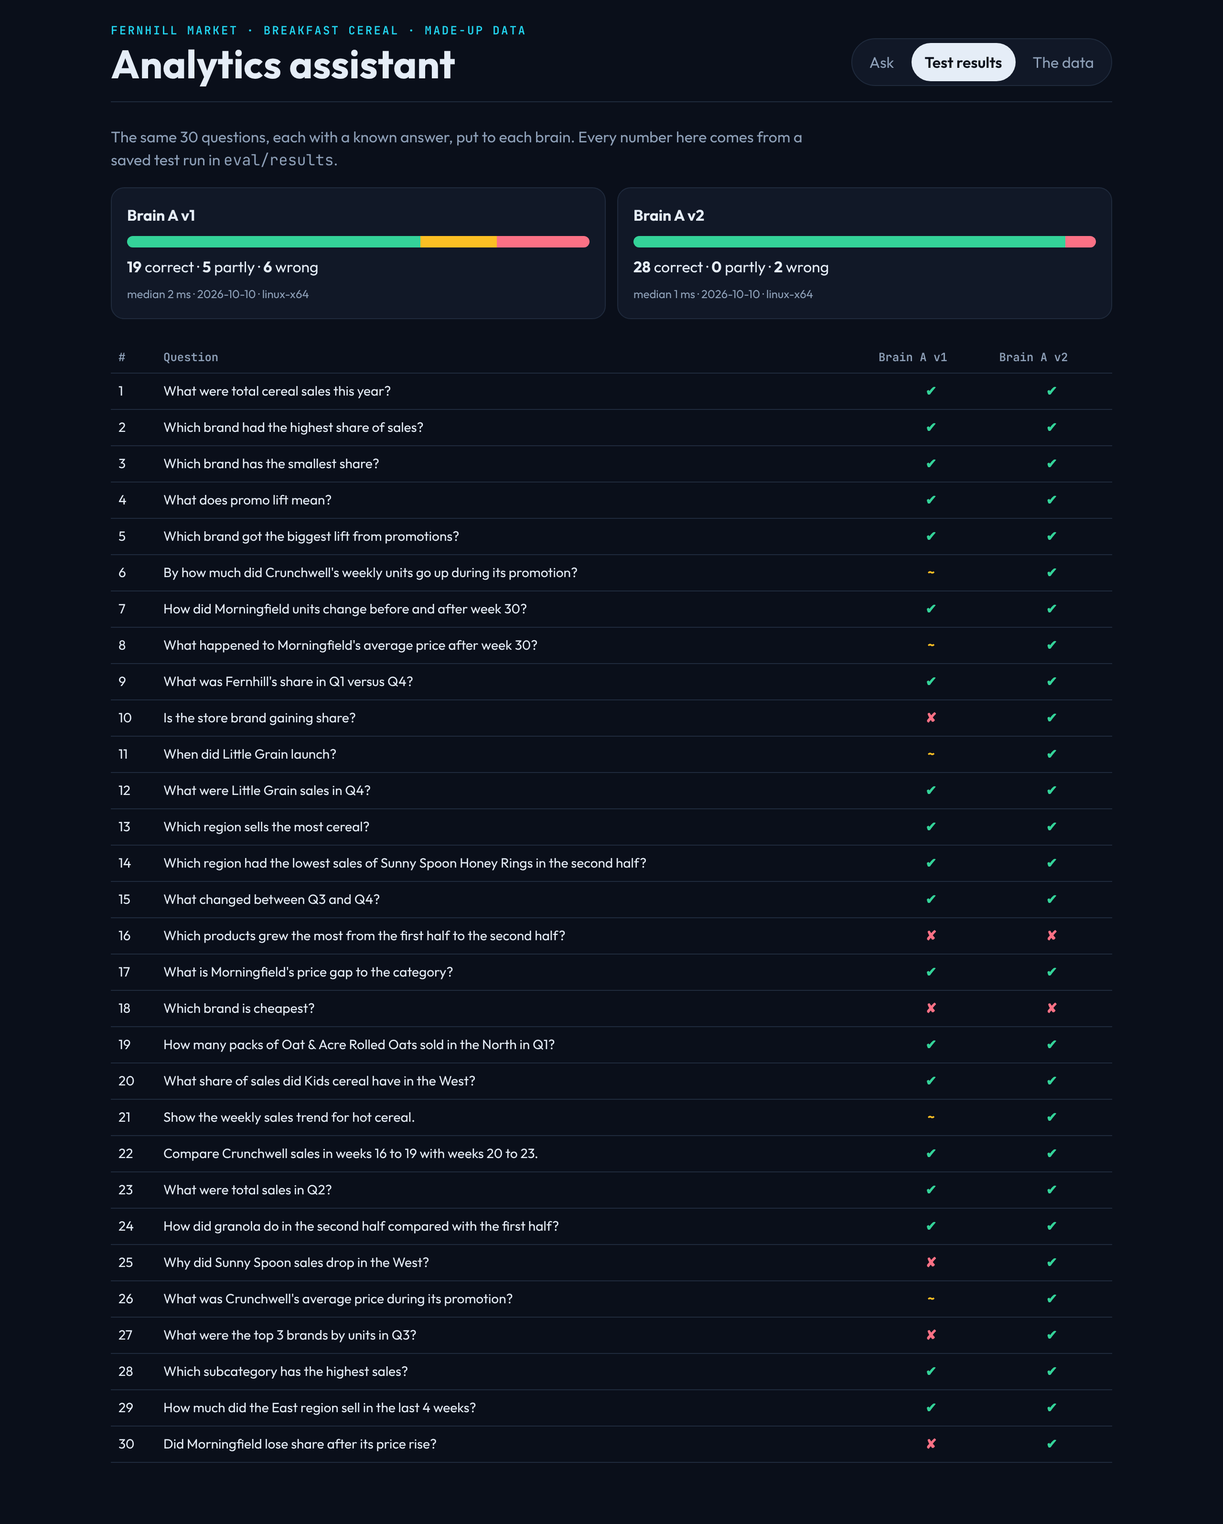
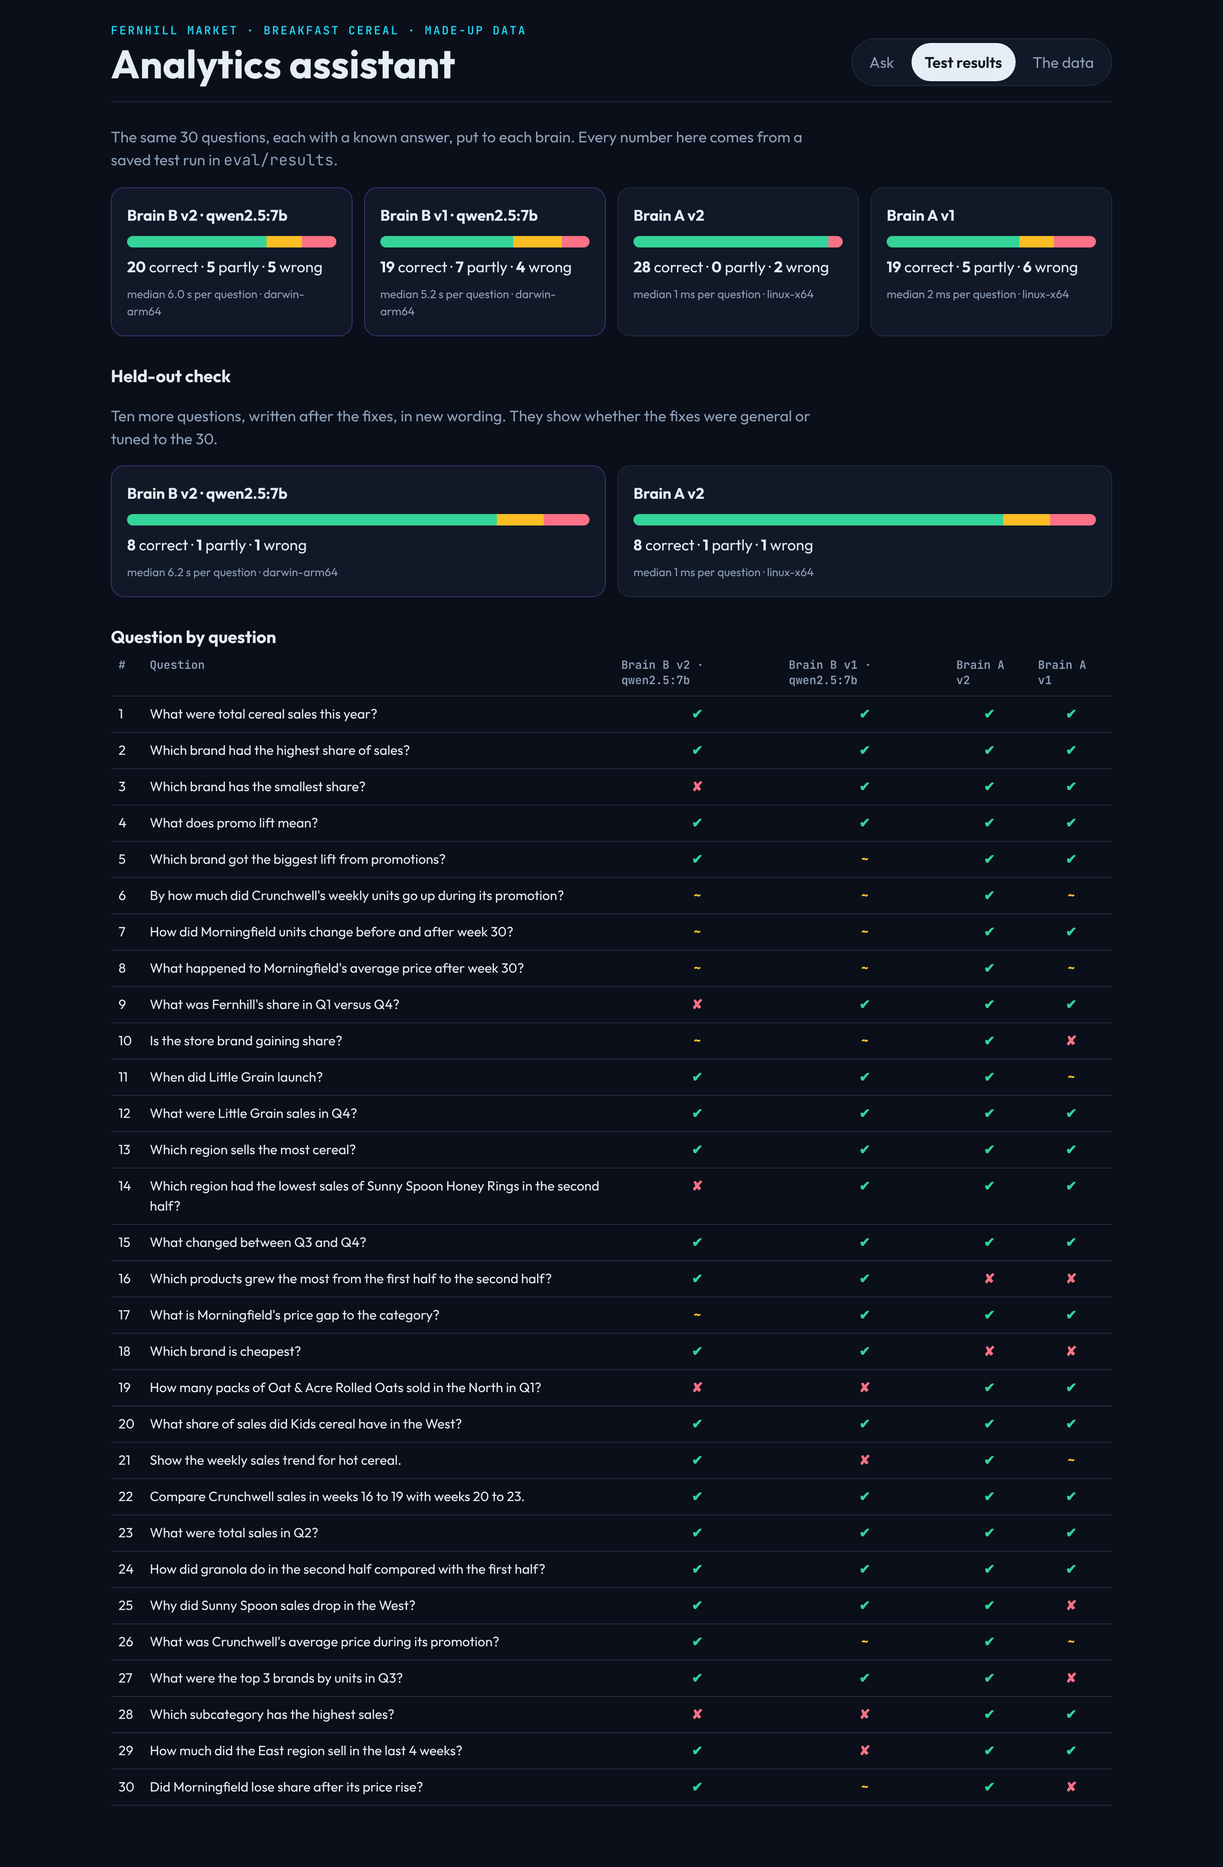
Analytics assistant: brain B results, scorer fix, case study, portfolio page
Brain B (qwen2.5:7b, real runs on the owner's Mac): 19/7/4 in v1 and
20/5/5 in v2, 8/1/1 on the held-out set, same as brain A v2. Found and
fixed a scorer bug ("West" matched inside "lowest"); every saved
answer was re-scored from its stored text and one verdict changed.
Test results tab now shows the held-out runs. Two-chapter case study
with a claims ledger, and a portfolio page linked from the copilot and
MCP pages.

Claude-Session: https://claude.ai/code/session_01GFJizb53m6GhKEsJMYueyU

diff --git a/web/src/App.tsx b/web/src/App.tsx
@@ -183,29 +183,37 @@ function ToolLog({ calls }: { calls: Call[] }) {
 
 function Results() {
   const [runs, setRuns] = useState<Run[]>([]);
+  const [holdout, setHoldout] = useState<Run[]>([]);
   useEffect(() => {
-    fetch("/api/results").then((r) => r.json()).then((d) => setRuns(d.runs)).catch(() => {});
+    fetch("/api/results").then((r) => r.json()).then((d) => (setRuns(d.runs), setHoldout(d.holdout ?? []))).catch(() => {});
   }, []);
   if (!runs.length) return <main className="results"><p>No test runs yet. Run <code>npm run eval -- rules</code>.</p></main>;
   const qs = runs[0].results;
-  const name = (r: Run) => `${r.summary.brain === "rules" ? "Brain A" : "Brain B"} ${r.summary.label}${r.summary.model ? ` (${r.summary.model})` : ""}`;
+  const name = (r: Run) => `${r.summary.brain === "rules" ? "Brain A" : "Brain B"} ${r.summary.label.replace(/^qwen2\.5-7b-?/, "") || "v1"}${r.summary.model ? ` · ${r.summary.model}` : ""}`;
+  const card = (r: Run) => (
+    <div className={`score ${r.summary.brain}`} key={name(r)}>
+      <h3>{name(r)}</h3>
+      <div className="stack" aria-label={`${r.summary.correct} correct, ${r.summary.partial} partly, ${r.summary.wrong} wrong`}>
+        <span className="c" style={{ flex: r.summary.correct }} />
+        <span className="p" style={{ flex: r.summary.partial }} />
+        <span className="w" style={{ flex: r.summary.wrong }} />
+      </div>
+      <p><b>{r.summary.correct}</b> correct · <b>{r.summary.partial}</b> partly · <b>{r.summary.wrong}</b> wrong</p>
+      <p className="small">median {r.summary.median_ms < 1000 ? `${r.summary.median_ms} ms` : `${(r.summary.median_ms / 1000).toFixed(1)} s`} per question · {r.summary.platform}</p>
+    </div>
+  );
   return (
     <main className="results">
       <p className="lead">The same 30 questions, each with a known answer, put to each brain. Every number here comes from a saved test run in <code>eval/results</code>.</p>
-      <div className="scores">
-        {runs.map((r) => (
-          <div className="score" key={name(r)}>
-            <h3>{name(r)}</h3>
-            <div className="stack" aria-label={`${r.summary.correct} correct, ${r.summary.partial} partly, ${r.summary.wrong} wrong`}>
-              <span className="c" style={{ flex: r.summary.correct }} />
-              <span className="p" style={{ flex: r.summary.partial }} />
-              <span className="w" style={{ flex: r.summary.wrong }} />
-            </div>
-            <p><b>{r.summary.correct}</b> correct · <b>{r.summary.partial}</b> partly · <b>{r.summary.wrong}</b> wrong</p>
-            <p className="small">median {r.summary.median_ms.toLocaleString()} ms · {r.summary.ran_at.slice(0, 10)} · {r.summary.platform}</p>
-          </div>
-        ))}
-      </div>
+      <div className="scores">{runs.map(card)}</div>
+      {holdout.length > 0 && (
+        <>
+          <h2>Held-out check</h2>
+          <p className="lead">Ten more questions, written after the fixes, in new wording. They show whether the fixes were general or tuned to the 30.</p>
+          <div className="scores">{holdout.map(card)}</div>
+        </>
+      )}
+      <h2>Question by question</h2>
       <div className="grid-wrap">
         <table className="grid">
           <thead>

diff --git a/eval/rescore.ts b/eval/rescore.ts
@@ -1,0 +1,23 @@
+// Re-scores every saved result with the current scorer, without re-running
+// any brain: the saved files keep each answer's full text. Used once, when a
+// scorer bug was found ("West" matched inside "lowest").
+import { readdirSync, readFileSync, writeFileSync } from "node:fs";
+import { buildDatabase } from "../src/data/seed.ts";
+import { buildQuestions } from "./questions.ts";
+import { buildHoldout } from "./holdout.ts";
+import { score } from "./score.ts";
+
+const db = buildDatabase();
+const keys = new Map([...buildQuestions(db), ...buildHoldout(db)].map((q) => [q.id, q.expect]));
+for (const file of [...readdirSync("eval/results").map((f) => `eval/results/${f}`), ...readdirSync("eval/results/holdout").map((f) => `eval/results/holdout/${f}`)].filter((f) => f.endsWith(".json"))) {
+  const run = JSON.parse(readFileSync(file, "utf8"));
+  const before = `${run.summary.correct}/${run.summary.partial}/${run.summary.wrong}`;
+  const counts = { correct: 0, partial: 0, wrong: 0 };
+  for (const r of run.results) {
+    if (!r.error) { const s = score(r.answer, keys.get(r.id)!); if (s.verdict !== r.verdict) console.log(`  ${file} #${r.id}: ${r.verdict} -> ${s.verdict}`); r.verdict = s.verdict; r.missing = s.missing; }
+    counts[r.verdict as keyof typeof counts]++;
+  }
+  Object.assign(run.summary, counts, { rescored_at: new Date().toISOString() });
+  writeFileSync(file, JSON.stringify(run, null, 2));
+  console.log(`${file}: ${before} -> ${counts.correct}/${counts.partial}/${counts.wrong}`);
+}

diff --git a/src/server/app.ts b/src/server/app.ts
@@ -27,9 +27,10 @@ export function buildApp(db: DatabaseSync, opts: { webDir?: string; resultsDir?:
   // The test results, for the Results tab. Only files the eval wrote.
   app.get("/api/results", async () => {
     const dir = opts.resultsDir ?? "eval/results";
-    if (!existsSync(dir)) return { runs: [] };
-    const runs = readdirSync(dir).filter((f) => f.endsWith(".json")).sort().map((f) => JSON.parse(readFileSync(join(dir, f), "utf8")));
-    return { runs };
+    const read = (d: string) => (existsSync(d) ? readdirSync(d).filter((f) => f.endsWith(".json")).sort().reverse().map((f) => JSON.parse(readFileSync(join(d, f), "utf8"))) : []);
+    // Brain B first, then A; newest version first within each.
+    const order = (runs: any[]) => runs.sort((a, b) => a.summary.brain.localeCompare(b.summary.brain) || b.summary.label.localeCompare(a.summary.label));
+    return { runs: order(read(dir)), holdout: order(read(join(dir, "holdout"))) };
   });
 
   app.get("/api/about", async () => ({ planted: Object.values(PLANTED).map((p) => p.text) }));

diff --git a/eval/score.ts b/eval/score.ts
@@ -25,7 +25,9 @@ export function score(text: string, e: Expected): { verdict: Verdict; passed: nu
   const nums = numbersIn(text);
   const missing: string[] = [];
   let passed = 0, total = 0;
-  for (const n of e.names ?? []) (total++, t.includes(n.toLowerCase()) ? passed++ : missing.push(n));
+  // Whole words only: "West" must not match inside "lowest" (a v1 scorer bug).
+  const has = (n: string) => new RegExp(`(^|[^a-z0-9])${n.toLowerCase().replace(/[.*+?^${}()|[\]\\&]/g, "\\$&")}($|[^a-z0-9])`).test(t);
+  for (const n of e.names ?? []) (total++, has(n) ? passed++ : missing.push(n));
   for (const v of e.numbers ?? []) (total++, nums.some((x) => close(x, v)) ? passed++ : missing.push(String(v)));
   if (e.anyWords) (total++, e.anyWords.some((w) => new RegExp(`\\b${w}\\b`).test(t)) ? passed++ : missing.push(e.anyWords.join("/")));
   const verdict: Verdict = total === 0 || passed === total ? "correct" : passed / total >= 0.5 ? "partial" : "wrong";

diff --git a/web/src/styles.css b/web/src/styles.css
@@ -80,6 +80,8 @@ h1 { margin: 4px 0 0; font-size: clamp(1.8rem, 4vw, 2.6rem); line-height: 1.1; }
 .lead { color: var(--muted); max-width: 70ch; }
 .scores { display: grid; grid-template-columns: repeat(auto-fit, minmax(220px, 1fr)); gap: 12px; margin: 16px 0 24px; }
 .score { background: var(--panel); border: 1px solid var(--line); border-radius: 14px; padding: 16px; }
+.score.ai { border-color: #3a2f6b; }
+.results h2 { font-size: 18px; margin: 28px 0 0; }
 .score h3 { margin: 0 0 10px; font-size: 16px; }
 .score p { margin: 8px 0 0; }
 .small { font-size: 12px; color: var(--muted); }

diff --git a/CASE_STUDY.md b/CASE_STUDY.md
@@ -1,0 +1,140 @@
+# Rules or AI? Measuring both on the same questions
+
+A two-chapter case study. Chapter 1 is what happens at work, described in general terms. Chapter 2 is this public rebuild, with made-up data, where everything is measured.
+
+## The short version
+
+I gave two "brains" the same six data tools and the same 30 questions with known answers.
+
+| | Correct | Partly | Wrong | Time per question (median) |
+|---|---|---|---|---|
+| Brain A (rules), v1 | 19 | 5 | 6 | 2 ms |
+| Brain A (rules), v2 | 28 | 0 | 2 | 1 ms |
+| Brain B (local AI, qwen2.5:7b), v1 | 19 | 7 | 4 | 5.2 s |
+| Brain B (local AI, qwen2.5:7b), v2 | 20 | 5 | 5 | 6.0 s |
+| **Held out:** Brain A v2, 10 new questions | 8 | 1 | 1 | 1 ms |
+| **Held out:** Brain B v2, 10 new questions | 8 | 1 | 1 | 6.2 s |
+
+What I took from it:
+
+- **Rules win on the questions you built them for, and are thousands of times faster.** After fixing its two worst failure types, brain A got 28 of 30.
+- **The fixes were partly tuned to the test.** On 10 new questions written afterwards, brain A got 8. New wording ("after its promotion ended", "the three biggest") still trips it.
+- **The local AI handles wording it has never seen.** It answered "cheapest", "grew the most", "why" and "when" with no rules written for them. It also made up week numbers, picked the wrong measure, and sometimes ignored half the question.
+- **Fixing an AI's instructions is not like fixing code.** Six general lines fixed five questions and broke four others. Net gain: one.
+- **On new questions they tie (8 of 10 each)**, so the real choice is about cost and failure style: rules fail loudly ("I couldn't work out that question"), the AI fails quietly with a confident wrong number. That's why every answer on the screen shows the tool calls behind it.
+
+![Test results](docs/screenshots/07-results.png)
+
+## Chapter 1: at work
+
+I work as a solutions engineer on a retail data team. Two things from that work led here.
+
+**Using analytics tools from an AI assistant.** My team's analytics web app is available to AI agents as a set of typed tools, through MCP (Model Context Protocol, a standard plug that lets an AI call functions and get structured answers back). A platform team built that server. I didn't. I'm a daily user: I wired it into my own editor and ask it questions about categories and products while I work. Doing that every day taught me what makes a tool easy or hard for an agent: clear descriptions, flat arguments, errors that say how to fix the call, and a log of what actually ran.
+
+**A rules-based copilot prototype.** For a hackathon I built a prototype that answers plain-English questions about a grocery category with fixed rules, no AI model, on purpose: for a demo, answers that are consistent and repeatable beat answers that are clever.
+
+What I never had was a measurement. Was the rules approach better than letting a model call the tools? Nobody could say. Work data can't leave work, so I rebuilt the idea in public to find out.
+
+## Chapter 2: the public build
+
+Everything here is made up or written from scratch. No work code, data or names.
+
+### The data
+
+A year (52 weeks of 2025) of weekly breakfast cereal sales at **Fernhill Market**, a fictional grocer: six invented brands, sixteen products, four regions, 2,998 weekly rows, $1,764,523 in total. A fixed seed means every run gets the same numbers.
+
+Five surprises are planted on purpose, so the tests know the truth:
+
+1. Crunchwell ran a promotion in weeks 20 to 23. Units more than doubled.
+2. Morningfield raised prices 12% from week 30. Its units fell about 18%.
+3. Little Grain launched two products in week 40.
+4. Fernhill, the store's own brand, gained share all year.
+5. Sunny Spoon Honey Rings stopped selling in the West from week 35.
+
+### Each number defined once
+
+Sales, units, average price, share, price gap and promo lift are each defined in one file (`src/data/metrics.ts`), with a one-line meaning. The tools, both brains and the test answer key all use it, so two answers about "share" can never disagree. The first version measured a subcategory's share against itself (always 100%); a test caught it.
+
+### Six tools, also an MCP server
+
+`find_product`, `describe_metric`, `get_metric`, `compare_periods`, `list_events`, `what_changed`. All read-only (the database is opened read-only, and a test proves a delete fails), at most 60 rows per call, arguments checked before running, and every call logged. The same six run as an MCP server, so Claude Code or Cursor can use them directly.
+
+![How it fits together](docs/diagrams/1-how-it-fits.svg)
+
+### Two brains
+
+**Brain A, rules.** Reads the question with keyword lists and patterns (which measure, which brand, which weeks), picks an answer shape (rank, compare, trend, define, event), calls the tools and fills in a sentence. If nothing matches, it says so.
+
+**Brain B, local AI.** `qwen2.5:7b`, a 7 billion parameter model running on my Mac through Ollama (free, offline). It gets the question, a short description of the data and the six tools, decides which to call, reads the results and writes the answer. The model is a setting (`OLLAMA_MODEL`).
+
+![Brain A answering, with its tool calls](docs/screenshots/01-ask-price-rise.png)
+
+### How it was tested
+
+![How it is tested](docs/diagrams/2-how-it-is-tested.svg)
+
+30 questions written the way a category manager might ask. Each has an answer key worked out from the data. The scorer checks that the answer names the right things and contains the right numbers (within 2%): all checks pass is **correct**, at least half is **partly correct**, otherwise **wrong**. Then 10 more **held-out** questions, written after the fixes, to check the fixes weren't just tuned to the 30.
+
+### Round one
+
+**Brain A v1: 19 correct, 5 partly, 6 wrong.** It failed on:
+
+- **events and relative time** (5 questions): "after week 30", "during its promotion", "after its price rise", "gaining share";
+- **answer shapes it didn't have** (3): "when did it launch", "why did sales drop", "top 3";
+- **word choice** (2): "cheapest", "grew the most";
+- **a bug** (1): the row limit was 50, so a 52-week trend lost its last two weeks.
+
+**Brain B v1: 19 correct, 7 partly, 4 wrong.** It sailed through the questions brain A couldn't parse, and failed on:
+
+- **wrong weeks** (7): it guessed the promotion was weeks 30 to 39 instead of looking it up, put week 30 on the wrong side, misread "last 4 weeks";
+- **wrong measure** (4): dollars when asked for packs, a total when asked for a trend.
+
+### The fixes
+
+**Brain A v2.** A sixth tool, `list_events`, finds promotions, lasting price changes, launches and products that stopped selling, from the data itself (nothing typed in by hand). Brain A uses it to turn "after its price rise" into weeks, and to answer "when" and "why". It also learned "top N" and yes/no answers. The row limit went to 60. I left the word-choice failures alone, to report them.
+
+**Brain B v2.** Six general lines in its instructions: how to read "before and after week N" and "last N weeks", call `list_events` instead of guessing, which measure each word means, how to describe a trend, and don't split by region unless asked.
+
+### Round two
+
+**Brain A v2: 28 correct, 0 partly, 2 wrong.** Only the two word-choice questions left.
+
+**Brain B v2: 20 correct, 5 partly, 5 wrong.** It fixed five questions (the promotion lift, the trend, the promotion price, "last 4 weeks", the share after the price rise), and four it had right went wrong. One of those it now answered "South" for a region question whose answer was West.
+
+### The held-out check
+
+**Brain A v2: 8 of 10. Brain B v2: 8 of 10.** Brain A misread "after its promotion ended" and didn't know "the three biggest". Brain B didn't name the product it found, and picked the wrong weeks for "after the promotion ended" too.
+
+### Being honest about the numbers
+
+- Each brain B version ran once. Small models vary from run to run, and I haven't measured how much.
+- The scorer checks names and numbers, not reasoning. Checking by hand, two of brain B's "correct" answers are generous: one names the right product next to a wrong one, one gives the right price with the wrong weeks.
+- I found a scorer bug while checking: "West" matched inside the word "lowest". Fixed to whole words, and every saved answer re-scored from its stored text. One verdict changed.
+- Brain A was fixed while I could see the 30 questions. That's why the held-out set exists.
+- Two infrastructure failures happened on the way: a Homebrew build of Ollama couldn't load models (0 of 30, because nothing ran, so that file was deleted and the eval now refuses to score a broken setup), and a `.gitignore` rule hid a source folder. Both are in [NOTES.md](NOTES.md).
+
+### What I'd do next
+
+- Run each brain B version five times and report the spread, not one number.
+- Try brain B with brain A as a first pass: rules when they're confident, the model when they aren't.
+- Grade answers on reasoning as well as numbers, by hand, for a sample.
+
+## Claims ledger
+
+Every claim on the portfolio page, and where its evidence is.
+
+| Claim | Evidence |
+|---|---|
+| 2,998 weekly rows, $1,764,523 total | `npm run seed` output; `test/data.test.ts` |
+| Five planted surprises, found from the data | `src/data/seed.ts` (`PLANTED`); `test/tools.test.ts` ("finds all five planted events") |
+| Tools are read-only, max 60 rows, every call logged | `test/tools.test.ts` |
+| The tools run as an MCP server | `test/mcp.test.ts` (starts the server as a real process and calls it) |
+| Brain A v1: 19 / 5 / 6, median 2 ms | `eval/results/rules-v1.json` |
+| Brain A v2: 28 / 0 / 2, median 1 ms | `eval/results/rules-v2.json` |
+| Brain B v1 (qwen2.5:7b): 19 / 7 / 4, median 5.2 s | `eval/results/ai-qwen2.5-7b-v1.json` (run on the owner's Mac) |
+| Brain B v2 (qwen2.5:7b): 20 / 5 / 5, median 6.0 s | `eval/results/ai-qwen2.5-7b-v2.json` (run on the owner's Mac, re-scored after the scorer fix) |
+| Held out: both brains 8 / 1 / 1 | `eval/results/holdout/` |
+| Brain B v2 fixed five questions and broke four | Question-by-question table in the two brain B result files |
+| One verdict changed after the scorer fix | `eval/rescore.ts` output, in NOTES.md |
+| 31 automated tests pass | `npm test` |
+| Chapter 1 (work) | My own account. The platform team built the work MCP server; I use it and built the hackathon prototype. No numbers from work are claimed. |

diff --git a/NOTES.md b/NOTES.md
@@ -31,3 +31,25 @@ Failure types, by count:
 **Tests.** 31 passing: data, metrics, tools (including read-only database and row limit), brain A, brain B wiring, the MCP server started as a real process over stdio, and the web server.
 
 **Screenshots.** `docs/screenshots/01` to `09`, desktop and phone.
+
+## 2026-10-11
+
+**Brain B, first real attempt.** On the owner's Mac (Apple silicon), the Homebrew build of Ollama (0.40.2) failed on every question with `llama-server binary not found`. The eval still saved a 0/30 file. That file was deleted (it measured a broken install, not the model), and the eval now asks the model one warm-up question first and saves nothing if it fails. Installing the official Ollama app fixed it.
+
+**Also found:** the `.gitignore` rule `data/` (meant for the generated database) also hid `src/data/`, so a fresh clone couldn't run. Fixed to `/data/`, checked with a clean copy.
+
+**Brain B v1 (qwen2.5:7b, real run).** 19 correct, 7 partly correct, 4 wrong. Median 5.2 seconds per question. It answered the questions brain A couldn't parse ("cheapest", "grew the most", "why", "when") with no special rules.
+
+Failure types, by count:
+1. Wrong weeks: guessed the promotion as weeks 30 to 39 (it was 20 to 23) instead of calling `list_events`, put week 30 on the wrong side of "after week 30", got "last 4 weeks" wrong, split by region when not asked. 7 questions.
+2. Wrong measure: dollars when the question said packs, a total when it asked for a trend, prices per product instead of the brand. 4 questions.
+
+**Fix (brain B v2).** Six general lines added to the model's instructions: how to read before/after and last-N-weeks, look up events instead of guessing, which measure each word means, report first and last week for a trend, and don't split unless asked. No answers written in.
+
+**Brain B v2 (real run).** 20 correct, 5 partly correct, 5 wrong. Median 6.0 seconds. Fixed five questions (5, 21, 26, 29, 30) but four that v1 got right went wrong (3, 9, 14, 17). Net: one more correct, one more wrong. A small model is sensitive to its instructions: more rules changed behaviour on questions they weren't about. Each version was run once, so run-to-run variation isn't measured.
+
+**Held-out, brain B v2.** 8 correct, 1 partly correct, 1 wrong. The same as brain A v2.
+
+**Scorer bug found while checking by hand.** A name check matched "West" inside "lowest", so a wrong brain B v2 answer (#14, said South) was marked correct. The scorer now matches whole words. All saved results were re-scored from their stored text with `eval/rescore.ts`; only that one answer changed (brain B v2 went from 21/5/4 to 20/5/5).
+
+**Hand check of brain B's "correct" answers.** Two are generous: #16 (v2) names the right product next to a wrong one, and #26 (v2) gives the right price with the wrong promotion weeks. Kept as scored; reported here.
